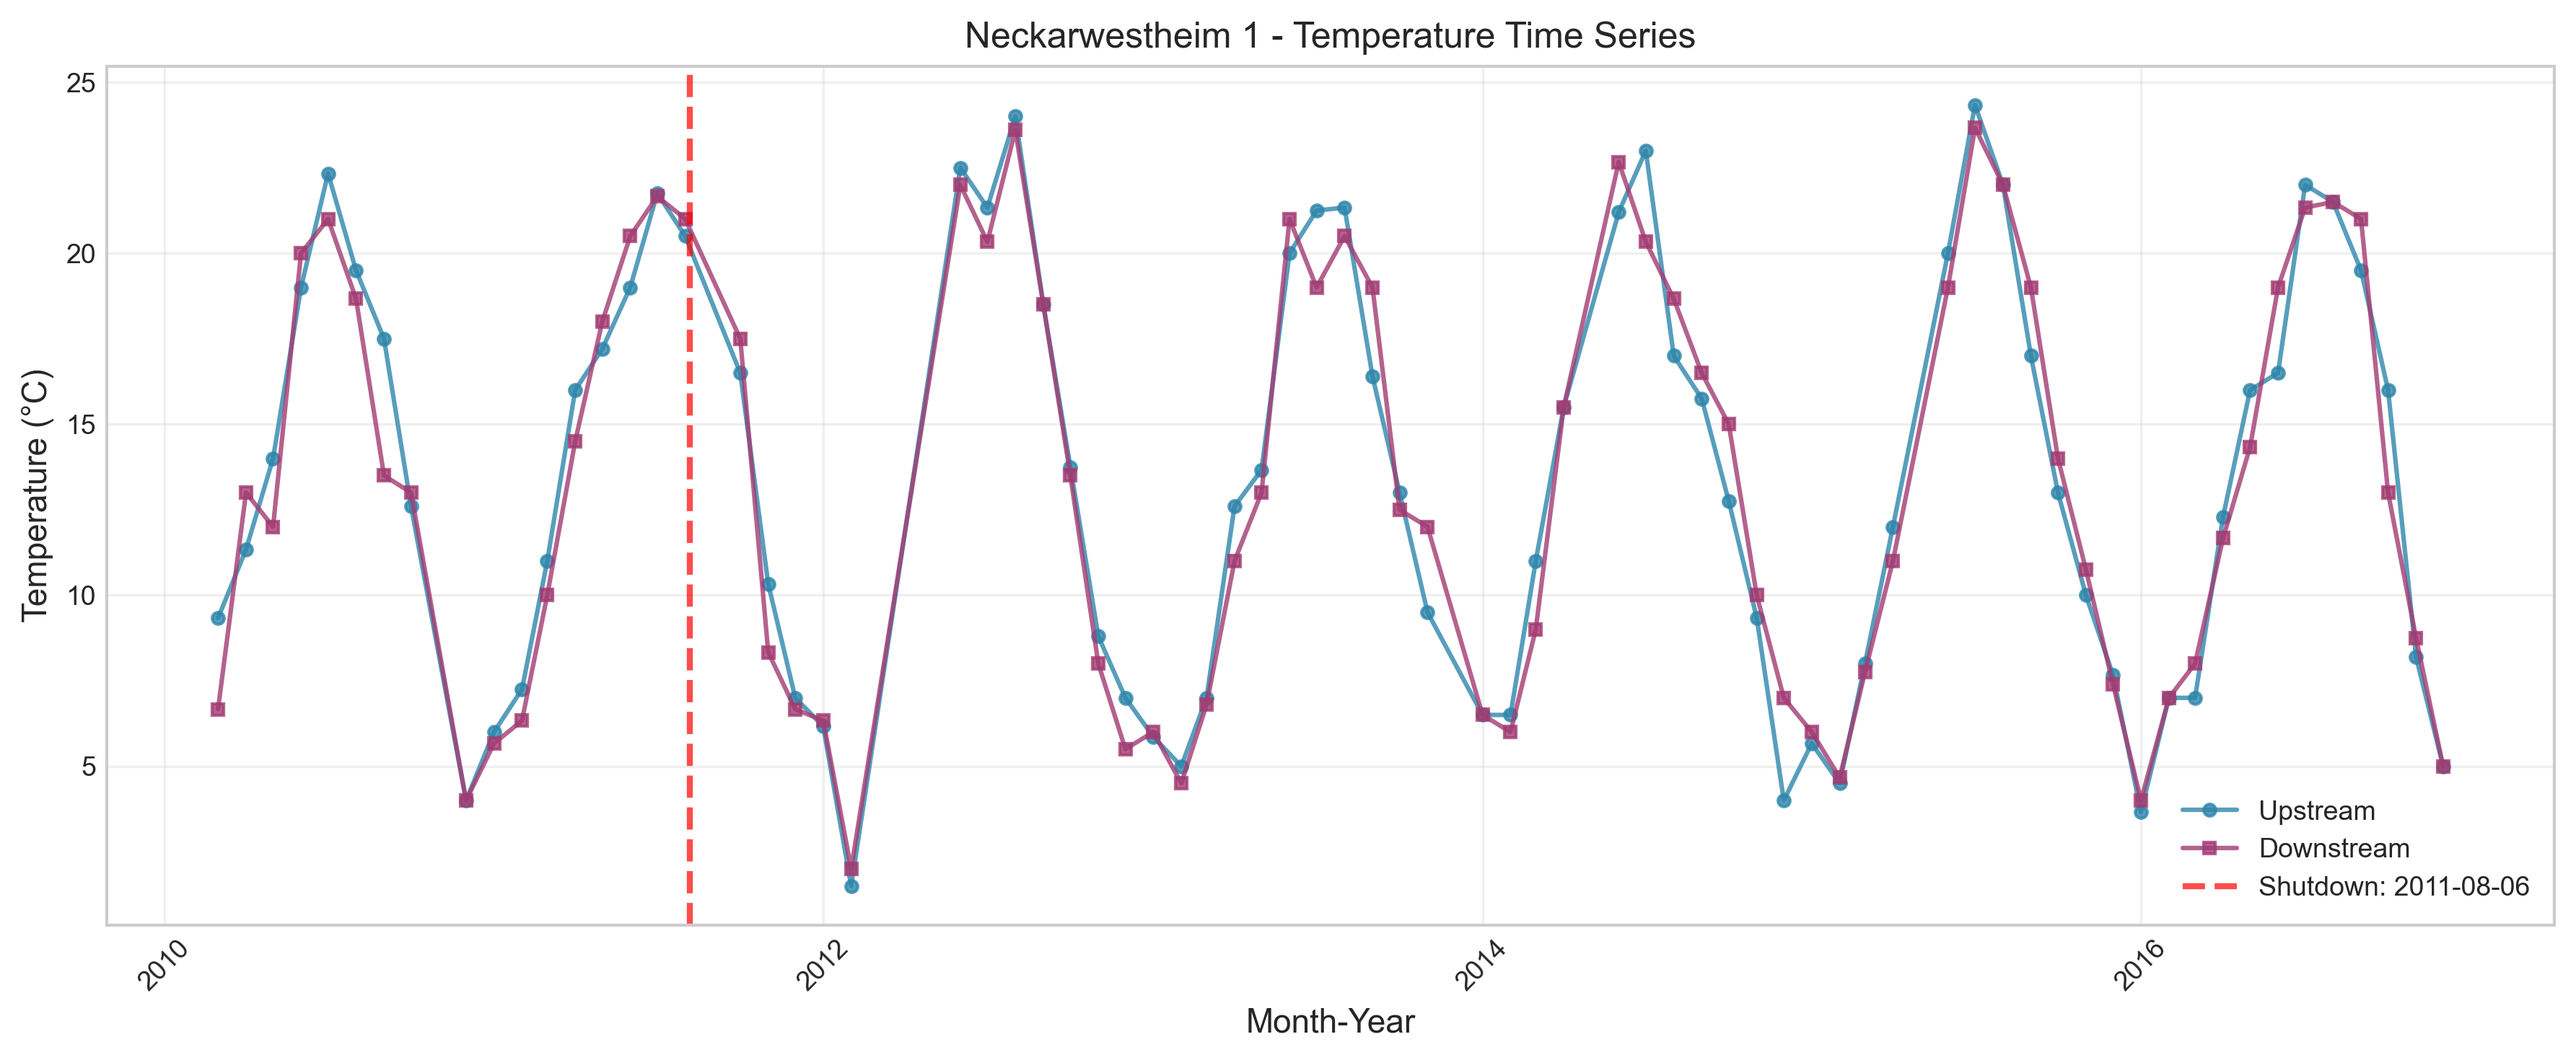
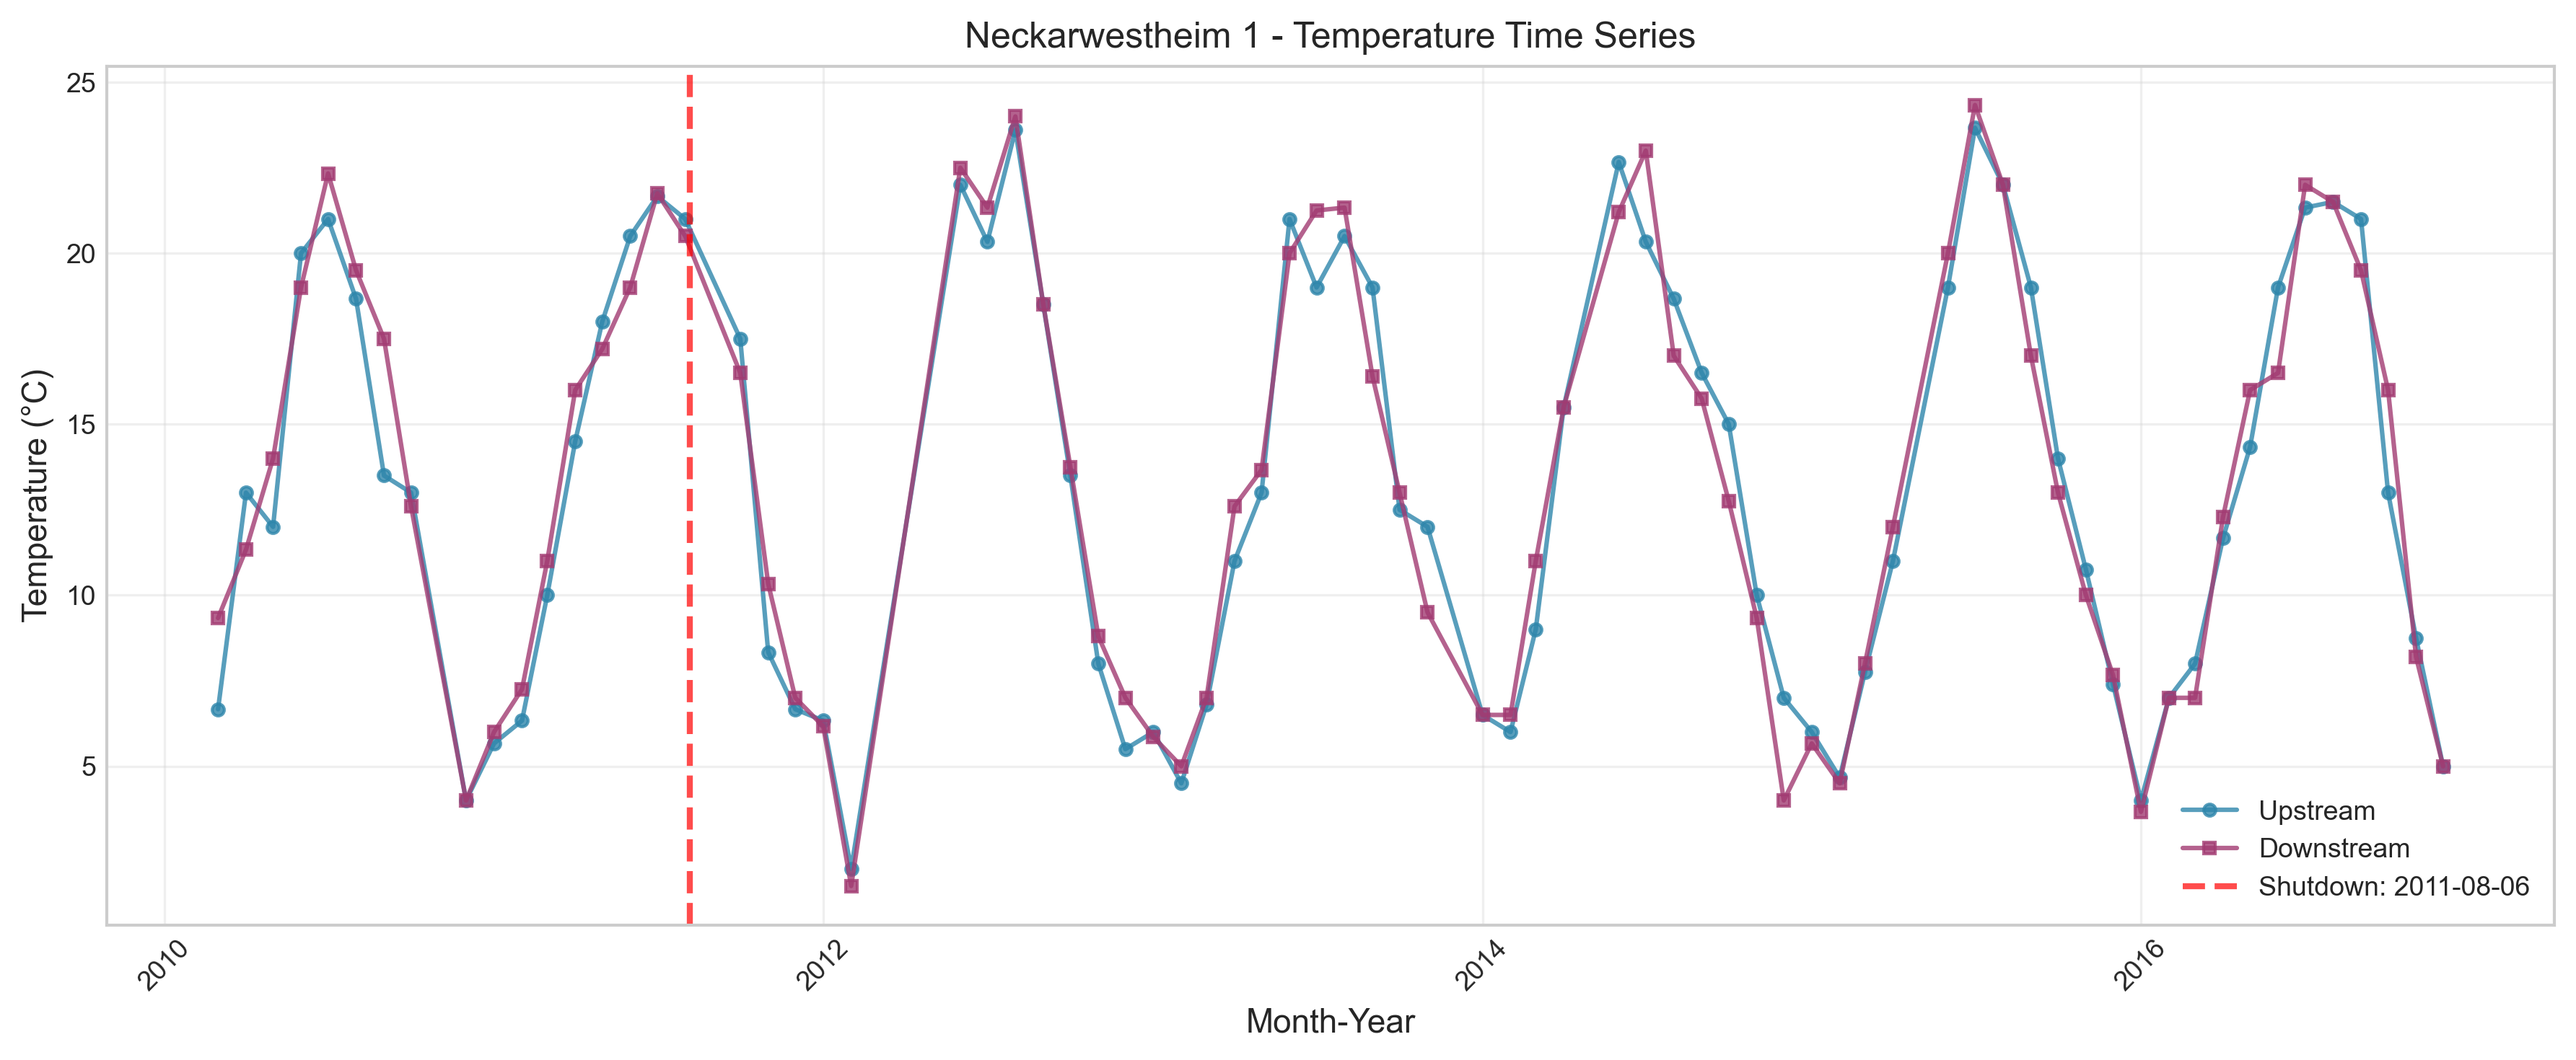
upstream and downstream station fix + results

diff --git a/src/config.py b/src/config.py
@@ -46,8 +46,8 @@ OBSERVATIONS = [
         "obs_id": 2,
         "plant": "Neckarwestheim 1",
         "river": "Neckar",
-        "upstream_station": "Lauffen",
-        "downstream_station": "Besigheim",
+        "upstream_station": "Besigheim",
+        "downstream_station": "Lauffen",
         "shutdown_date": datetime(2011, 8, 6),
         "shutdown_year": 2011,
         "temp_file_pattern": "2011-5_C",
@@ -112,8 +112,8 @@ OBSERVATIONS = [
         "obs_id": 8,
         "plant": "Neckarwestheim 2",
         "river": "Neckar",
-        "upstream_station": "Lauffen",
-        "downstream_station": "Besigheim",
+        "upstream_station": "Besigheim",
+        "downstream_station": "Lauffen",
         "shutdown_date": datetime(2023, 4, 15),
         "shutdown_year": 2023,
         "temp_file_pattern": "2023-5_C",

diff --git a/final_results/reports/ANALYSIS_REPORT.md b/final_results/reports/ANALYSIS_REPORT.md
@@ -30,13 +30,13 @@ Successfully loaded and processed data for the following observations:
 | Observation | Plant | River | Upstream | Downstream | Years | Status |
 |---|---|---|---|---|---|---|
 | 1 | Isar 1 | Isar | Landshut-Birket | Landau | 1980-2023 | ✓ Temperature |
-| 2 | Neckarwestheim 1 | Neckar | Lauffen | Besigheim | 2006-2023 | ✓ Oxygen only |
+| 2 | Neckarwestheim 1 | Neckar | Besigheim | Lauffen | 2006-2023 | ✓ Oxygen only |
 | 3 | Philippsburg 1 | Rhine | Karlsruhe | Mannheim | 2006-2019 | Data quality issues |
 | 4 | Gundremmingen B | Danube | Neu-Ulm | Donauwörth | 2001-2026 | ✓ Temperature |
 | 5 | Philippsburg 2 | Rhine | Karlsruhe | Mannheim | 2006-2019 | Data quality issues |
 | 6 | Gundremmingen C | Danube | Neu-Ulm | Donauwörth | 2001-2026 | ✓ Temperature |
 | 7 | Isar 2 | Isar | Landshut-Birket | Landau | 1980-2023 | ✓ Temperature |
-| 8 | Neckarwestheim 2 | Neckar | Lauffen | Besigheim | 2006-2023 | ✓ Oxygen only |
+| 8 | Neckarwestheim 2 | Neckar | Besigheim | Lauffen | 2006-2023 | ✓ Oxygen only |
 
 ### Data Quality
 
